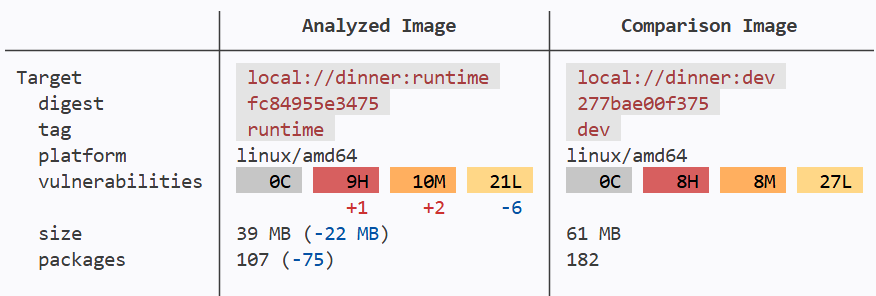
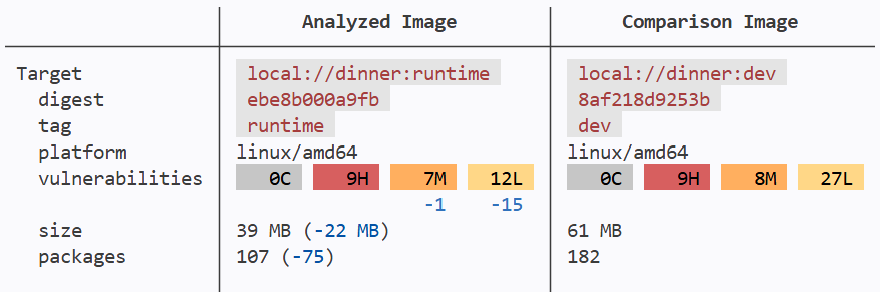
--pull to get more up-to-date results while building the python images (otherwise could pick up old local version of the base images)

diff --git a/README.md b/README.md
@@ -18,7 +18,7 @@ You can run this Labspace in its latest version from anywhere (if you have Docke
 docker compose -f oci://ghcr.io/mathieu-benoit/labspace-dhi-launch:latest up
 ```
 
-And then open the labspace in your web browser: http://localhost:3030
+And then open the labspace in your web browser: http://localhost:3030.
 
 ## Contribute to this Labspace
 
@@ -35,3 +35,5 @@ On Windows with PowerShell:
 ```bash
 $Env:CONTENT_PATH = (Get-Location).Path; docker compose up --watch
 ```
+
+And then open the labspace in your web browser: http://localhost:3030.

diff --git a/labspace/06-conclusion.md b/labspace/06-conclusion.md
@@ -12,9 +12,9 @@ Here are the benefits illustrated with the Python container image:
 
 | | Default Python |  DHI Python | |
 |-|--------------------|----------------|-|
-| CVEs | 12C 88H 84M 267L 93? | 6H 8M 22L 1? | -507 |
+| CVEs | 1C 35H 33M 219L 27? | 9H 7M 12L | -287 |
 | Size (on disk) | 1.71 GB | 153 MB | -1.56 GB |
-| Number of packages | 492 | 106 | -386 |
+| Number of packages | 510 | 107 | -403 |
 | Run-as | `root` | `nonroot` | |
 | Package manager | Yes | No | |
 | Shell | Yes | No | |

diff --git a/labspace/04-multi-stage.md b/labspace/04-multi-stage.md
@@ -24,7 +24,7 @@ CMD ["python", "/app/app.py"]
 ```
 
 ```bash
-docker build -t dinner:runtime .
+docker build --pull -t dinner:runtime .
 ```
 
 Compare the CVEs between the `dev` and the `runtime` hardened images built locally:
@@ -39,7 +39,7 @@ docker scout compare \
 ![](images/scout-compare-dev-runtime.png)
 
 ✅ See the number of CVEs, packages and size of the image just got improved:
-- CVEs: -39
+- CVEs: -16
 - Packages: -75
 - Size (on disk): -112 MB
 - Run-as: `root` --> `nonroot`

diff --git a/labspace/03-use-dhi.md b/labspace/03-use-dhi.md
@@ -18,7 +18,7 @@ FROM $$registry$$python:3.14-debian13-dev
 Build the updated image with the hardened `dev` variant:
 
 ```bash
-docker build -t dinner:dev .
+docker build --pull -t dinner:dev .
 ```
 
 Compare the CVEs between the initial image and the latest hardened `dev` image built locally:
